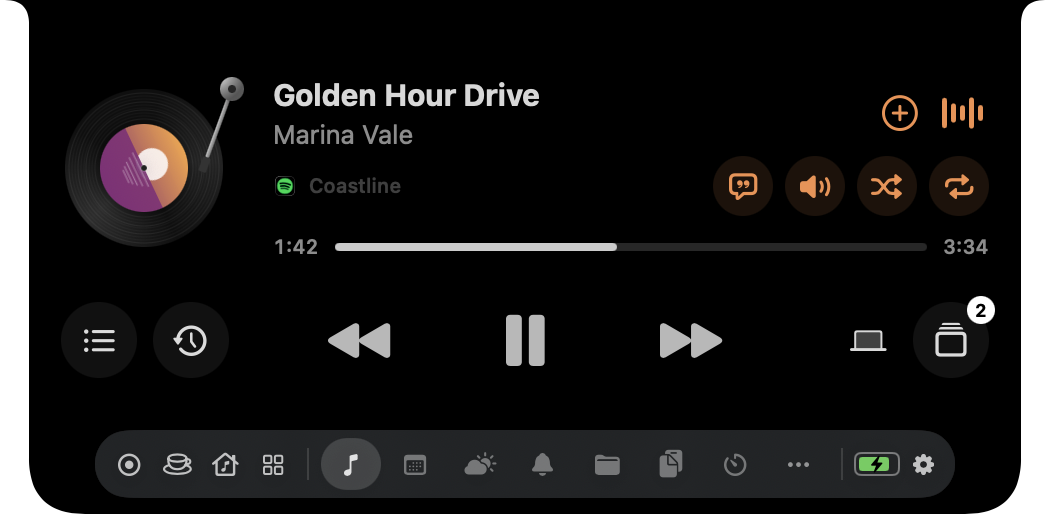
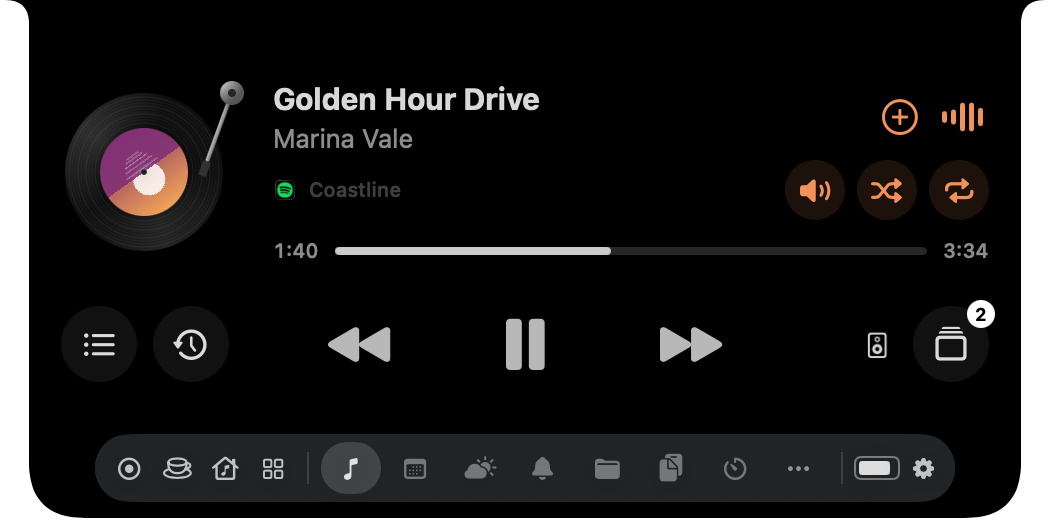
Lagoon 1.0.2

diff --git a/README.md b/README.md
@@ -16,6 +16,7 @@
 - [What is Lagoon?](#what-is-lagoon)
 - [Requirements](#requirements)
 - [Install](#install)
+- [Updates](#updates)
 - [First run and permissions](#first-run-and-permissions)
 - [How it works](#how-it-works)
 - [The Lagoons](#the-lagoons)
@@ -60,13 +61,21 @@ Open **Terminal** and paste:
 curl -fsSL https://raw.githubusercontent.com/jpclopes99/Lagoon/main/install.sh | bash
 ```
 
-It downloads the latest version, puts **Lagoon** in your Applications folder and opens it. To **update**, run the same command again: your settings and permissions are kept.
+It downloads the latest version, puts **Lagoon** in your Applications folder and opens it.
 
 Prefer to do it by hand? Download `Lagoon.zip` from the [latest release](https://github.com/jpclopes99/Lagoon/releases/latest), unzip it and drag **Lagoon** to Applications. The first time, macOS says it can't verify the developer: open **System Settings → Privacy & Security** and click **Open Anyway** (only once).
 
 To uninstall, quit Lagoon from its menu bar icon and move it from Applications to the Trash.
 
 Lagoon lives in the **menu bar** (no Dock icon). To open it at login, turn on **Settings → General → Open at login**.
+
+## Updates
+
+Lagoon updates itself. It checks for new versions when it opens, when you unlock your Mac and once a day. When there is one, a notice appears on the island (and in Notification Center) with an **Install** button: Lagoon downloads it, replaces itself and reopens, keeping your settings and permissions. Installed plugins are updated together with the app.
+
+- Check by hand: **Check for Updates…** in the menu bar icon, or **Settings → General → Updates**.
+- Turn automatic checks or automatic installs on or off in **Settings → General → Updates**.
+- Every update is signed: Lagoon only installs versions published by its author.
 
 ## First run and permissions
 
@@ -109,9 +118,9 @@ Works with **any player**: Spotify, Apple Music, YouTube Music, and video or mus
 - Big controls, clickable progress bar, shuffle, repeat (all / one), volume, audio output picker.
 - **Players** button: every app and browser tab that is playing, so you can switch between them.
 - **Up Next** queue (Spotify, Apple Music, YouTube and YouTube Music), with drag to reorder.
-- **Synced lyrics** (from LRCLIB, free, no account) — Spotify.
 - **Recents** — the albums, playlists and Liked Songs you played recently on Spotify, one click to play.
 - **Like** button for Spotify (works both ways with the Spotify app) and Apple Music.
+- Spotify's Up Next, Like and Recents need a free Spotify app of your own — see [Spotify](#spotify).
 - **Vinyl cover**: the artwork becomes a spinning record with a tonearm (slow, medium or fast).
 - **Sneak Peek**: when the song changes, the title and artist appear under the notch for a moment.
 
@@ -339,6 +348,8 @@ Live CPU, memory, GPU, disk, network, battery and temperature.
 
 Follow Claude Code, Codex, Gemini CLI and GitHub Copilot sessions — working, waiting for you, subagents — plus usage and plan limits.
 
+To show the Claude plan limits, Lagoon reads your Claude Code login from the macOS Keychain. It never asks on its own: if macOS needs your permission, the usage panel shows **Allow access** — click it once and choose **Always Allow**.
+
 ### Microsoft Teams / Zoom
 
 <p><img src="docs/images/call.png" width="512" alt="Meeting controls"><br><img src="docs/images/live-teams.png" height="34" alt="Meeting on the closed island"></p>
@@ -362,14 +373,23 @@ Plugins are either **native** (Swift, shipped with the app and switched on by th
 
 - **Three sizes** (small pill, medium square, large portrait), on the desktop or floating above windows.
 - **Themes**: album colour, black, Liquid Glass, clear glass, dynamic glass.
-- Large widget: progress, volume, output, **Up Next**, **lyrics**, **recents** and **players**.
+- Large widget: progress, volume, output, **Up Next**, **recents** and **players**.
 - **Vinyl or normal cover** (the vinyl spins slow, medium or fast); tapping the cover plays/pauses.
 - **Menu bar player**: artwork and play/pause in the menu bar; click to open a small player under the island.
 - Right-click the widget for all its options.
 
 ## Spotify
 
-Basic control (play, pause, skip, artwork) works out of the box through AppleScript. For the extras — **Like**, **Up Next**, **Recents** and **repeat one** — connect your account in **Settings → Activities → Spotify → Connect**. Lagoon uses the Spotify Web API with your login and asks Spotify as little as possible (Spotify limits how many requests an app can make; if it asks Lagoon to wait, the island tells you until when).
+Basic control (play, pause, skip, artwork) works out of the box through AppleScript, with no setup.
+
+The extras — **Like**, **Up Next**, **Recents** and **repeat one** — use the Spotify Web API, which needs a free Spotify app of your own (Spotify only lets each app connect accounts its owner allows, so Lagoon can't ship one for everyone). It takes about 2 minutes:
+
+1. Open the [Spotify Developer Dashboard](https://developer.spotify.com/dashboard), sign in with your Spotify account and click **Create app**.
+2. Give it any name and description, tick **Web API**, and under **Redirect URIs** add exactly `http://127.0.0.1:8957/callback`. Save.
+3. Copy the app's **Client ID**.
+4. In Lagoon, open **Settings → Activities → Spotify**, paste the Client ID and click **Connect to Spotify**.
+
+Lagoon asks Spotify as little as possible (Spotify limits how many requests an app can make; if it asks Lagoon to wait, the island tells you until when).
 
 ## Keyboard shortcuts and gestures
 
@@ -390,7 +410,7 @@ Shortcuts can be turned off in Settings.
 
 Open from the gear in the Lagoons bar, the island's right-click menu or the menu bar icon. While Settings are open the island stays open, so you see changes live.
 
-- **General** — language (English / Portuguese / system), open at login, open on hover, delays, Lagoon to open, shortcuts.
+- **General** — language (English / Portuguese / system), open at login, updates, credits and licenses, open on hover, delays, Lagoon to open, shortcuts.
 - **Displays** — which screens get an island and where.
 - **Appearance** — style (black, Liquid Glass), accent colour, closed island width/height/distance from the top, open island size and corners, bubble size and count, Lagoons bar always visible or on hover, animation speed, Lagoon order.
 - **Activities** — what the closed island shows, music options (vinyl, Sneak Peek), Spotify, weather, notifications, HUD.
@@ -405,11 +425,11 @@ Lagoon runs on your Mac. It has no account and no analytics. Data only leaves yo
 | Feature | Talks to |
 |---|---|
 | Weather | [Open-Meteo](https://open-meteo.com) (free, no account), with your city or approximate location |
-| Lyrics | LRCLIB, with the song title and artist |
-| Spotify extras | Spotify, with your login |
+| Spotify extras | Spotify, with your login and your own Spotify app's Client ID |
 | Shortcuts link icons | The website of each link (to fetch its icon) |
 | Agents usage (optional) | Anthropic, with your Claude Code login; GitHub, with your `gh` login |
 | iCloud link | Your iCloud Drive |
+| Updates | GitHub (the list of versions and the update itself) |
 
 Logins (Spotify) are stored in the macOS Keychain.
 
@@ -419,6 +439,8 @@ Logins (Spotify) are stored in the macOS Keychain.
 - **macOS says Lagoon can't be opened** — install it with the Terminal command above, or open **System Settings → Privacy & Security** and click **Open Anyway**.
 - **Browser tabs don't show in the music player** — allow AppleScript control of the browser when macOS asks, and turn on *Allow JavaScript from Apple Events* (Chrome-based: *View → Developer*; Safari: *Settings → Advanced → Show features for web developers*, then *Develop*).
 - **Spotify Like/Queue/Recents stopped working** — Spotify may have asked Lagoon to wait (the island shows until when), or you need to connect the account again after an update that added a permission.
+- **"This Spotify account isn't allowed for the Client ID"** — the Client ID in Settings must be from a Spotify app you created yourself (see [Spotify](#spotify)).
+- **macOS keeps asking for the "Claude Code-credentials" password** — update Lagoon: it no longer asks on its own. Use **Allow access** in the Agents usage panel and choose **Always Allow**.
 - **Something froze or crashed** — look at `~/Library/Logs/Lagoon.log` and open an issue with the last lines.
 
 ## Acknowledgements
@@ -430,7 +452,6 @@ Lagoon uses these open-source components and services (full notices in the app: 
 | [mediaremote-adapter](https://github.com/ungive/mediaremote-adapter) | Reads what is playing (macOS 15.4+) | BSD 3-Clause |
 | [Sparkle](https://sparkle-project.org) | Automatic updates | MIT |
 | [Open-Meteo](https://open-meteo.com) | Weather data | CC BY 4.0 |
-| [LRCLIB](https://lrclib.net) | Synced lyrics | — |
 
 ## Feedback
 
@@ -438,4 +459,4 @@ Found a bug or have an idea? **[Open an issue](https://github.com/jpclopes99/Lag
 
 ## License
 
-**All rights reserved.** Lagoon is free to download, install and use on your own Macs, but it is **not open source**: the source code is not published, and you may not copy, modify or redistribute the app without the author's written permission. See [LICENSE](LICENSE) for the full terms. Third-party components are not covered by it and keep their own licenses: [mediaremote-adapter](https://github.com/ungive/mediaremote-adapter) (BSD 3-Clause) and [Sparkle](https://sparkle-project.org) (MIT); weather data comes from [Open-Meteo](https://open-meteo.com) (CC BY 4.0) and lyrics from [LRCLIB](https://lrclib.net). See [Acknowledgements](#acknowledgements).
+**All rights reserved.** Lagoon is free to download, install and use on your own Macs, but it is **not open source**: the source code is not published, and you may not copy, modify or redistribute the app without the author's written permission. See [LICENSE](LICENSE) for the full terms. Third-party components are not covered by it and keep their own licenses: [mediaremote-adapter](https://github.com/ungive/mediaremote-adapter) (BSD 3-Clause) and [Sparkle](https://sparkle-project.org) (MIT); weather data comes from [Open-Meteo](https://open-meteo.com) (CC BY 4.0). See [Acknowledgements](#acknowledgements).

diff --git a/docs/LEIA-ME.pt.md b/docs/LEIA-ME.pt.md
@@ -15,7 +15,7 @@ curl -fsSL https://raw.githubusercontent.com/jpclopes99/Lagoon/main/install.sh |
 ```
 
 - O comando descarrega a última versão, põe a Lagoon em Aplicações e abre-a.
-- Para **atualizar**, corre o mesmo comando. As definições e as permissões ficam.
+- **Atualizações:** a Lagoon atualiza-se sozinha. Procura versões novas ao abrir, ao desbloquear o Mac e uma vez por dia; quando há uma, aparece um aviso na ilha (e no Centro de Notificações) com o botão **Instalar**. As definições, as permissões e os plugins ficam. Também há "Procurar atualizações…" no ícone da barra de menus e em Definições → Geral → Atualizações.
 - **À mão:** descarrega o `Lagoon.zip` da [última versão](https://github.com/jpclopes99/Lagoon/releases/latest) e arrasta a Lagoon para Aplicações. Na primeira vez o macOS diz que não consegue verificar o programador: vai a **Definições do Sistema → Privacidade e Segurança → Abrir mesmo assim** (só uma vez).
 - Precisa de macOS 14 ou mais recente. O Liquid Glass precisa de macOS 26.
 - A app fica na barra de menus, sem ícone na Dock. "Abrir ao iniciar sessão" está em Definições → Geral.
@@ -32,7 +32,7 @@ curl -fsSL https://raw.githubusercontent.com/jpclopes99/Lagoon/main/install.sh |
 
 - **Música:**
   - Leitores: qualquer leitor (Spotify, Music, YouTube Music e browsers como Chrome, Safari…).
-  - Controlos: fila, letra, recentes, gosto do Spotify, saída de áudio, volume e lista de leitores.
+  - Controlos: fila, recentes, gosto do Spotify, saída de áudio, volume e lista de leitores.
   - Capa: normal ou em vinil. O README tem imagens das duas.
 - **Calendário:** semana, eventos, lembretes e aviso de reunião com o botão "Join".
 - **Timers:** régua e vários timers ao mesmo tempo. ⌥⌘T ou ⌘ + clique no notch inicia um timer rápido.
@@ -61,7 +61,7 @@ Estão em Definições → Plugins, com os separadores Instalados e Marketplace:
 - **Termi-Notch:** comandos da shell.
 - **Audio Control:** volume por app.
 - **System Stats:** estado do Mac.
-- **Agents:** Claude Code e Copilot.
+- **Agents:** Claude Code e Copilot. Para os limites do Claude, se o macOS pedir autorização, carrega em **Permitir acesso** no painel de utilização e escolhe **Permitir sempre** (a Lagoon nunca pede sozinha).
 - **Teams** e **Zoom:** controlos de reunião.
 - **Downloads** do Chrome, Safari e Firefox.
 
@@ -69,13 +69,19 @@ Também podes carregar um plugin teu (JavaScript) a partir de uma pasta, em Defi
 
 ## Spotify
 
-O básico funciona logo, sem configurar nada. Para o gosto, a fila, os recentes e o repetir uma música, liga a conta em Definições → Atividades → Spotify. O Spotify limita os pedidos que cada app pode fazer: se pedir para esperar, a ilha diz até que horas.
+O básico (tocar, pausar, avançar e a capa) funciona logo, sem configurar nada. O gosto, a fila, os recentes e o repetir uma música precisam de uma app do Spotify tua, grátis:
+
+1. No [painel de programadores do Spotify](https://developer.spotify.com/dashboard), entra com a tua conta e carrega em **Create app**.
+2. Dá-lhe um nome qualquer, marca **Web API** e, em **Redirect URIs**, põe exatamente `http://127.0.0.1:8957/callback`.
+3. Copia o **Client ID**.
+4. Na Lagoon, em Definições → Atividades → Spotify, cola o Client ID e carrega em **Ligar ao Spotify**.
+
+O Spotify limita os pedidos que cada app pode fazer: se pedir para esperar, a ilha diz até que horas.
 
 ## Privacidade
 
 Não há conta nem estatísticas de uso. Só sai informação do Mac para:
 - a meteorologia (Open-Meteo);
-- a letra (LRCLIB);
 - o Spotify;
 - o ícone de cada link nos Shortcuts;
 - os limites do Claude e do Copilot no plugin Agents (opcional).
@@ -84,7 +90,7 @@ Os logins ficam no Porta-chaves do macOS.
 
 ## Créditos
 
-A Lagoon usa o mediaremote-adapter (BSD 3-Clause), o Sparkle (MIT), os dados meteorológicos do Open-Meteo (CC BY 4.0) e as letras do LRCLIB. Os avisos completos estão na app, em Definições → Geral → Créditos e licenças.
+A Lagoon usa o mediaremote-adapter (BSD 3-Clause), o Sparkle (MIT) e os dados meteorológicos do Open-Meteo (CC BY 4.0). Os avisos completos estão na app, em Definições → Geral → Créditos e licenças.
 
 ## Sugestões e problemas
 
@@ -92,4 +98,4 @@ Qualquer pessoa pode abrir uma issue no GitHub para reportar um problema ou suge
 
 ## Licença
 
-**Todos os direitos reservados** (ficheiro [LICENSE](../LICENSE)). Qualquer pessoa pode descarregar, instalar e usar a Lagoon de graça, mas não é open source: o código não é publicado e é proibido copiar, alterar ou distribuir a app sem autorização escrita do autor. Os componentes de terceiros não estão abrangidos por ela e mantêm as suas licenças: mediaremote-adapter (BSD 3-Clause) e Sparkle (MIT); os dados meteorológicos são do Open-Meteo (CC BY 4.0) e as letras do LRCLIB.
+**Todos os direitos reservados** (ficheiro [LICENSE](../LICENSE)). Qualquer pessoa pode descarregar, instalar e usar a Lagoon de graça, mas não é open source: o código não é publicado e é proibido copiar, alterar ou distribuir a app sem autorização escrita do autor. Os componentes de terceiros não estão abrangidos por ela e mantêm as suas licenças: mediaremote-adapter (BSD 3-Clause) e Sparkle (MIT); os dados meteorológicos são do Open-Meteo (CC BY 4.0).
